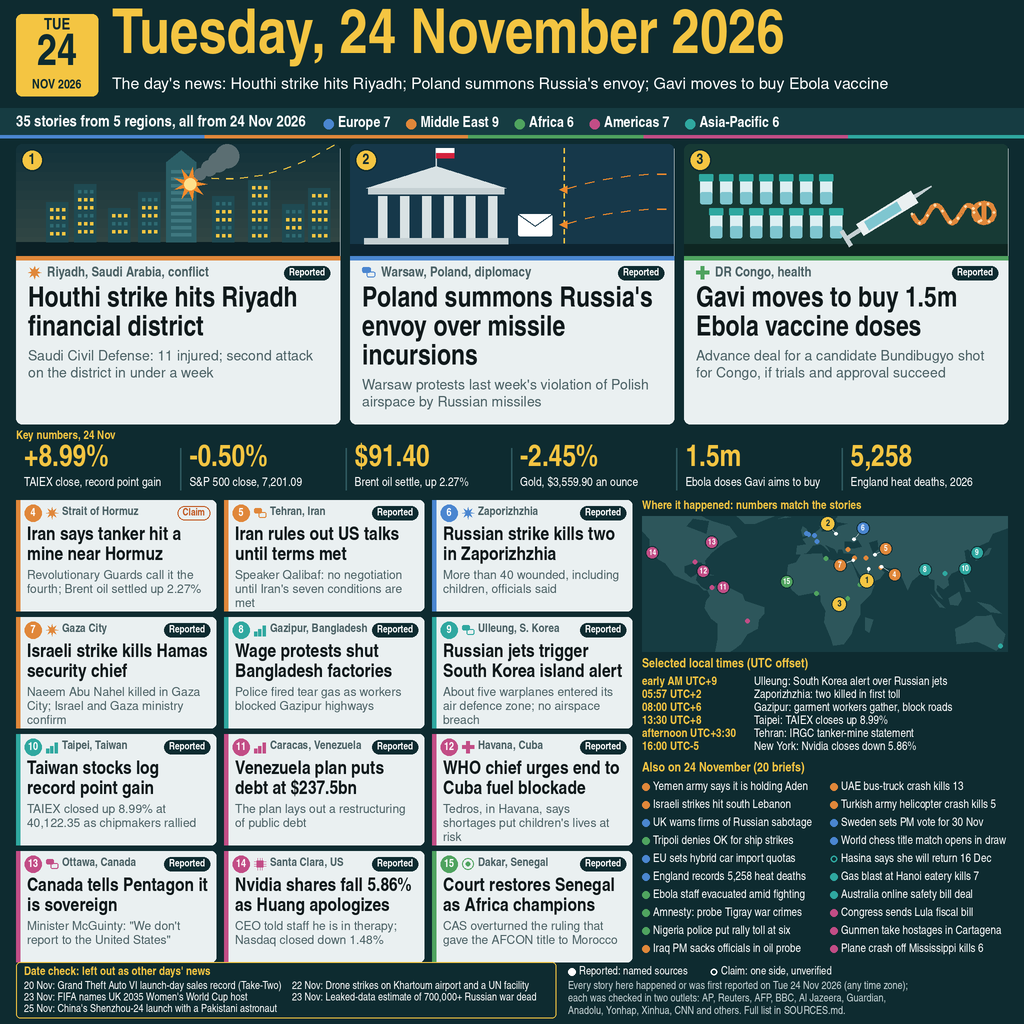
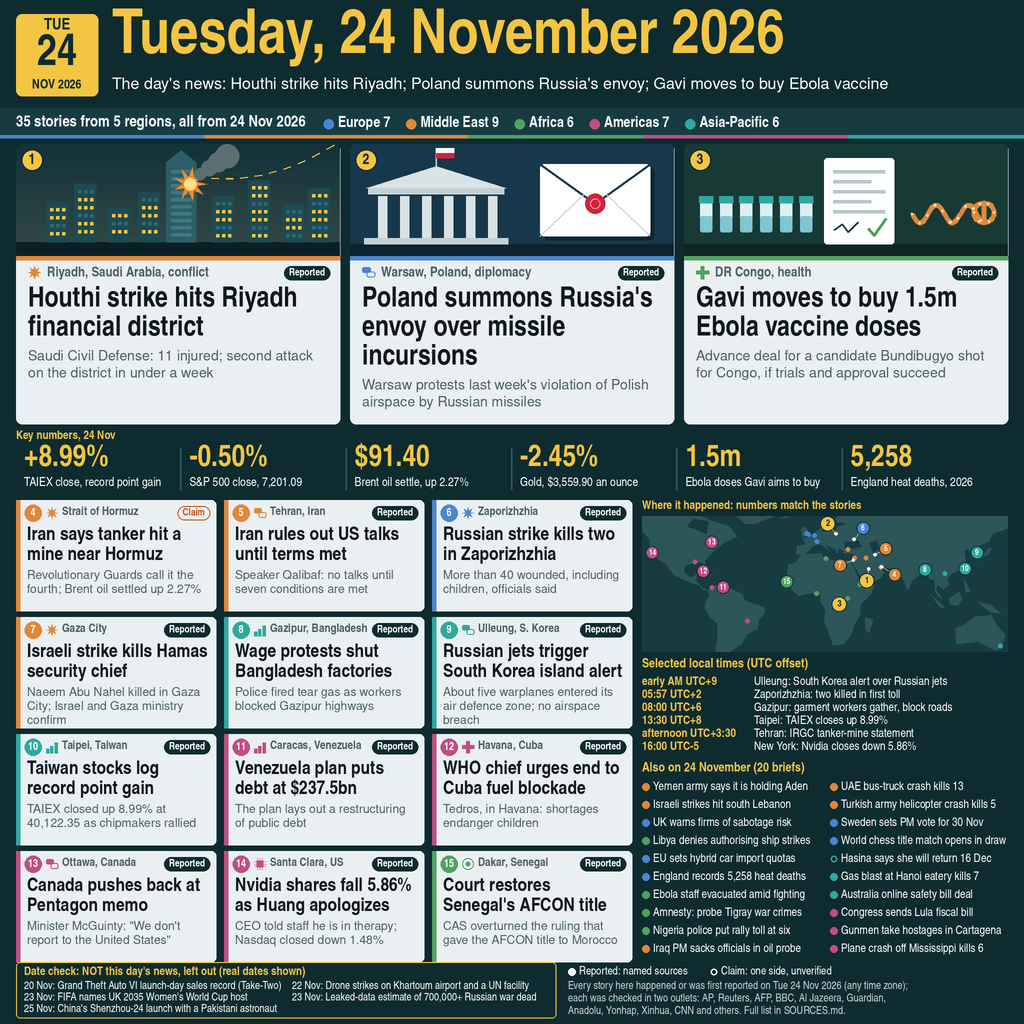
Apply art-director review: summons and purchase-deal lead art, clearer card and brief wording, labelled date check

diff --git a/render.py b/render.py
@@ -221,20 +221,15 @@ def scene_poland(w, h):
     p.line([((x0 + x1) / 2, 22), ((x0 + x1) / 2, 4)], "#C5D0D3", 1.5)
     p.rect((x0 + x1) / 2, 4, (x0 + x1) / 2 + 18, 9, fill="#FFFFFF")
     p.rect((x0 + x1) / 2, 9, (x0 + x1) / 2 + 18, 14, fill="#D4213D")
-    # border line and two missile tracks crossing it from the east
-    bxl = 214
-    for y in range(4, h - 12, 9):
-        p.line([(bxl, y), (bxl, y + 5)], "#F4C542", 1.6)
-    for k, y0 in enumerate((30, 62)):
-        pts = [(w - 8 - i * 9, y0 + (i * i) * 0.12 + k * 3) for i in range(12)]
-        for i in range(0, len(pts) - 1, 2):
-            p.line([pts[i], pts[i + 1]], "#F08A2C", 1.8)
-        hx, hy = pts[-1]
-        p.poly([(hx - 8, hy + 1), (hx, hy - 3), (hx, hy + 5)], fill="#F08A2C")
-    # summons envelope
-    ex, ey = 168, 70
-    p.rect(ex, ey, ex + 34, ey + 22, fill="#FFFFFF", r=2)
-    p.line([(ex, ey), (ex + 17, ey + 12), (ex + 34, ey)], "#16384A", 1.4)
+    # the summons: a large diplomatic letter with a red seal (no missile art: the day's news is the protest)
+    ex, ey, ew, eh = 190, 20, 110, 72
+    p.rect(ex + 4, ey + 4, ex + ew + 4, ey + eh + 4, fill="#0D2430", r=4)
+    p.rect(ex, ey, ex + ew, ey + eh, fill="#FFFFFF", r=4)
+    p.line([(ex, ey), (ex + ew / 2, ey + eh * 0.55), (ex + ew, ey)], "#16384A", 2)
+    p.line([(ex, ey + eh), (ex + ew * 0.4, ey + eh * 0.42)], "#C5D0D3", 1.4)
+    p.line([(ex + ew, ey + eh), (ex + ew * 0.6, ey + eh * 0.42)], "#C5D0D3", 1.4)
+    p.circle(ex + ew / 2, ey + eh * 0.55, 10, fill="#D4213D")
+    p.circle(ex + ew / 2, ey + eh * 0.55, 5, outline="#F4A3B0", width=1.4)
     return im
 
 
@@ -243,24 +238,19 @@ def scene_ebola(w, h):
     im = Image.new("RGB", (w * S, h * S), "#173A35")
     p = Pen(im)
     p.rect(0, h - 12, w, h, fill="#0E2622")
-    # rows of vials: many doses
-    for r in range(2):
-        for c in range(7):
-            x = 16 + c * 20 + r * 10
-            y = 30 + r * 34
-            p.rect(x, y + 6, x + 12, y + 30, fill="#DCEFF2", r=2)
-            p.rect(x, y + 18, x + 12, y + 30, fill="#7FC6D0", r=2)
-            p.rect(x - 1, y, x + 13, y + 7, fill="#2FA8A0", r=1)
-    # syringe
-    sx, sy = 176, 86
-    ang = -0.55
-    def rot(dx, dy):
-        return (sx + dx * math.cos(ang) - dy * math.sin(ang), sy + dx * math.sin(ang) + dy * math.cos(ang))
-    p.poly([rot(0, -7), rot(64, -7), rot(64, 7), rot(0, 7)], fill="#EAF0F1")
-    p.poly([rot(8, -5), rot(46, -5), rot(46, 5), rot(8, 5)], fill="#7FC6D0")
-    p.poly([rot(64, -2), rot(84, -0.6), rot(84, 0.6), rot(64, 2)], fill="#C5D0D3")
-    p.poly([rot(-14, -2), rot(0, -2), rot(0, 2), rot(-14, 2)], fill="#C5D0D3")
-    p.poly([rot(-18, -9), rot(-14, -9), rot(-14, 9), rot(-18, 9)], fill="#C5D0D3")
+    # one row of candidate-vaccine vials
+    for c in range(6):
+        x, y = 16 + c * 20, 52
+        p.rect(x, y + 6, x + 12, y + 36, fill="#DCEFF2", r=2)
+        p.rect(x, y + 20, x + 12, y + 36, fill="#7FC6D0", r=2)
+        p.rect(x - 1, y, x + 13, y + 7, fill="#2FA8A0", r=1)
+    # the purchase commitment: a signed document with a tick, not a jab (doses depend on trials)
+    dx, dy = 140, 14
+    p.rect(dx, dy, dx + 70, dy + 86, fill="#FFFFFF", r=3)
+    for i in range(5):
+        p.rect(dx + 9, dy + 12 + i * 10, dx + 61 - (i % 2) * 14, dy + 15 + i * 10, fill="#B8C6C9")
+    p.line([(dx + 10, dy + 72), (dx + 18, dy + 66), (dx + 24, dy + 74), (dx + 34, dy + 64)], "#16384A", 1.6)
+    p.line([(dx + 44, dy + 70), (dx + 50, dy + 77), (dx + 62, dy + 60)], "#4FA35F", 3)
     # filament virus: a long wavy thread with a closed loop (a crook shape reads as a "?")
     pts = []
     for i in range(48):
@@ -469,7 +459,7 @@ def render(out):
     # footer: date check, legend, sources
     fy = 964
     p.rect(16, fy - 2, 556, H - 6, outline=YEL, width=1.2, r=4)
-    p.text(24, fy + 2, "Date check: left out as other days' news", F("nb", 12), YEL)
+    p.text(24, fy + 2, "Date check: NOT this day's news, left out (real dates shown)", F("nb", 12), YEL)
     for i, d_ in enumerate(drops):
         x0 = 24 + (i % 2) * 268
         y = fy + 17 + (i // 2) * 11.5

diff --git a/SOURCES.md b/SOURCES.md
@@ -16,24 +16,24 @@ Format: id | region | place | lat, lon | field | tag | local time | headline | f
 ## Cards
 
 - C4 | Middle East | Strait of Hormuz | 26.50, 56.55 | conflict | CLAIM | afternoon statement (UTC+3:30) | Iran says tanker hit a mine near Hormuz | Revolutionary Guards call it the fourth; Brent oil settled up 2.27% | https://u.aa.com.tr/en/middle-east/iran-says-4th-oil-tanker-hits-naval-mine-catches-fire-in-strait-of-hormuz/4135570 ; https://www.tehrantimes.com/news/532508/Fourth-oil-tanker-reportedly-catches-fire-east-of-Hormuz-Strait ; https://live.euronext.com/en/financial-news/oil-settles-2-traders-weigh-continued-hormuz-ship-attacks
-- C5 | Middle East | Tehran, Iran | 35.69, 51.39 | diplomacy | REPORTED | time not reported | Iran rules out US talks until terms met | Speaker Qalibaf: no negotiation until Iran's seven conditions are met | https://apnews.com/article/mideast-iran-gaza-israel-houthis-libya-november-24-2026-ba01cb036a849ba69873da5000ee08d5 ; https://www.tehrantimes.com/news/532510/Qalibaf-rules-out-action-or-negotiations-until-Iran-s-seven-conditions
+- C5 | Middle East | Tehran, Iran | 35.69, 51.39 | diplomacy | REPORTED | time not reported | Iran rules out US talks until terms met | Speaker Qalibaf: no talks until seven conditions are met | https://apnews.com/article/mideast-iran-gaza-israel-houthis-libya-november-24-2026-ba01cb036a849ba69873da5000ee08d5 ; https://www.tehrantimes.com/news/532510/Qalibaf-rules-out-action-or-negotiations-until-Iran-s-seven-conditions
 - C6 | Europe | Zaporizhzhia | 47.84, 35.14 | conflict | REPORTED | 05:57 UTC+2 (first toll) | Russian strike kills two in Zaporizhzhia | More than 40 wounded, including children, officials said | https://nagalandpost.com/russian-strike-on-ukraine-kills-2-wounds-children-as-kyiv-explains-attack-in-libya/ ; https://www.aljazeera.com/amp/news/2026/11/24/russian-attack-kills-two-people-in-ukraines-zaporizhzhia ; https://www.pravda.com.ua/eng/news/2026/11/24/8064321/
 - C7 | Middle East | Gaza City | 31.50, 34.47 | conflict | REPORTED | time not reported | Israeli strike kills Hamas security chief | Naeem Abu Nahel killed in Gaza City; Israel and Gaza ministry confirm | https://www.bbc.com/news/articles/c6rrg7ggq190o ; https://www.france24.com/en/middle-east/20261124-israeli-strikes-on-gaza-kill-senior-hamas-security-official-and-six-other-people-medics-say
 - C8 | Asia-Pacific | Gazipur, Bangladesh | 24.00, 90.42 | economy | REPORTED | from 08:00 UTC+6 | Wage protests shut Bangladesh factories | Police fired tear gas as workers blocked Gazipur highways | https://www.tbsnews.net/economy/rmg/production-halted-481-garment-factories-amid-minimum-wage-negotiations-1612891 ; https://indiatoday.in/world/story/bangladesh-factories-shut-gazipur-highways-blocked-as-garment-workers-clash-with-police-amid-unrest-3046012-2026-11-24
 - C9 | Asia-Pacific | Ulleung, S. Korea | 37.48, 130.91 | diplomacy | REPORTED | early morning UTC+9 | Russian jets trigger South Korea island alert | About five warplanes entered its air defence zone; no airspace breach | https://en.yna.co.kr/view/AEN20261124002255315?section=national/defense ; https://www.aljazeera.com/news/2026/11/24/why-s-korea-issued-air-raid-alert-after-russian-jets-flew-near-its-airspace
 - C10 | Asia-Pacific | Taipei, Taiwan | 25.03, 121.57 | economy | REPORTED | 13:30 UTC+8 (close) | Taiwan stocks log record point gain | TAIEX closed up 8.99% at 40,122.35 as chipmakers rallied | https://www.taiwannews.com.tw/news/6480420 ; https://money.udn.com/money/story/5612/9898636
 - C11 | Americas | Caracas, Venezuela | 10.48, -66.90 | economy | REPORTED | time not reported | Venezuela plan puts debt at $237.5bn | The plan lays out a restructuring of public debt | https://finance.yahoo.com/news/venezuela-unveils-long-awaited-economic-152405699.html ; https://www.elnacional.com/2026/11/gobierno-publica-plan-economico-venezuela-renace-petroleo-deuda/
-- C12 | Americas | Havana, Cuba | 23.11, -82.37 | health | REPORTED | time not reported | WHO chief urges end to Cuba fuel blockade | Tedros, in Havana, says shortages put children's lives at risk | https://thehindu.com/news/international/who-chief-calls-on-us-to-lift-oil-blockade-on-cuba-citing-health-impact/article71740941.ece ; https://aljazeera.com/news/2026/11/24/who-chief-visits-cuba-as-healthcare-system-deteriorates ; https://www.who.int/news-room/speeches/item/who-director-general-s-remarks-at-press-conference---24-november-2026
-- C13 | Americas | Ottawa, Canada | 45.42, -75.70 | diplomacy | REPORTED | time not reported | Canada tells Pentagon it is sovereign | Minister McGuinty: "We don't report to the United States" | https://www.theguardian.com/world/2026/nov/24/canada-sovereign-nation-us-relations-defence-pentagon-memo ; https://english.news.cn/northamerica/20261125/59d6abf223454881b557e69bd2d2d268/c.html
+- C12 | Americas | Havana, Cuba | 23.11, -82.37 | health | REPORTED | time not reported | WHO chief urges end to Cuba fuel blockade | Tedros, in Havana: shortages endanger children | https://thehindu.com/news/international/who-chief-calls-on-us-to-lift-oil-blockade-on-cuba-citing-health-impact/article71740941.ece ; https://aljazeera.com/news/2026/11/24/who-chief-visits-cuba-as-healthcare-system-deteriorates ; https://www.who.int/news-room/speeches/item/who-director-general-s-remarks-at-press-conference---24-november-2026
+- C13 | Americas | Ottawa, Canada | 45.42, -75.70 | diplomacy | REPORTED | time not reported | Canada pushes back at Pentagon memo | Minister McGuinty: "We don't report to the United States" | https://www.theguardian.com/world/2026/nov/24/canada-sovereign-nation-us-relations-defence-pentagon-memo ; https://english.news.cn/northamerica/20261125/59d6abf223454881b557e69bd2d2d268/c.html
 - C14 | Americas | Santa Clara, US | 37.39, -121.96 | tech | REPORTED | 16:00 UTC-5 (close) | Nvidia shares fall 5.86% as Huang apologizes | CEO told staff he is in therapy; Nasdaq closed down 1.48% | https://edition.cnn.com/2026/11/24/tech/jensen-huang-apologies-employees-therapy ; https://www.rfi.fr/en/international-news/20261124-huang-s-return-fails-to-dispel-doubts-as-nvidia-shares-drop ; https://english.news.cn/20261125/d203107ead8b4b02841ae30cbf2ab7a1/c.html
-- C15 | Africa | Dakar, Senegal | 14.69, -17.44 | sport | REPORTED | time not reported | Court restores Senegal as Africa champions | CAS overturned the ruling that gave the AFCON title to Morocco | https://apnews.com/article/africa-cup-final-afcon-senegal-morocco-cas-d3804e3923ec1b7e5ca846806e8d6040 ; https://www.theguardian.com/football/2026/nov/24/afcon-verdict-senegal-morocco-africa-cup-of-nations-champions-court-ruling-cas
+- C15 | Africa | Dakar, Senegal | 14.69, -17.44 | sport | REPORTED | time not reported | Court restores Senegal's AFCON title | CAS overturned the ruling that gave the AFCON title to Morocco | https://apnews.com/article/africa-cup-final-afcon-senegal-morocco-cas-d3804e3923ec1b7e5ca846806e8d6040 ; https://www.theguardian.com/football/2026/nov/24/afcon-verdict-senegal-morocco-africa-cup-of-nations-champions-court-ruling-cas
 
 ## Briefs
 
 - B16 | Middle East | Aden, Yemen | 12.79, 45.04 | conflict | REPORTED | time not reported | Yemen army says it is holding Aden | Government forces said they were defending Aden as Houthi forces pushed closer | https://apnews.com/article/mideast-iran-gaza-israel-houthis-libya-november-24-2026-ba01cb036a849ba69873da5000ee08d5 ; https://www.reuters.com/world/middle-east/houthis-wont-seize-aden-yemeni-government-forces-say-2026-11-24/
 - B17 | Middle East | Southern Lebanon | 33.21, 35.42 | conflict | REPORTED | morning | Israeli strikes hit south Lebanon | Airstrikes and shelling despite the US-brokered ceasefire | https://aa.com.tr/en/middle-east/israeli-airstrikes-artillery-shelling-hit-southern-lebanon-as-violations-of-us-deal-continue/4135600 ; https://www.arabnews.com/middle-east/israel-pounds-southern-lebanon-amid-withdrawal-disarmament-standoff-3013865
-- B18 | Europe | London, UK | 51.51, -0.13 | diplomacy | REPORTED | morning | UK warns firms of Russian sabotage | Firms supporting Ukraine's military told to prepare | https://www.yahoo.com/news/articles/uk-warns-russian-sabotage-threat-123549976.html ; https://www.chronicleonline.com/news/world/british-officials-warn-uk-firms-aiding-ukraine-to-brace-for-russian-sabotage-threats/article_349f562e-ff4d-5906-b3a1-94ae10a02c0f.html
-- B19 | Africa | Tripoli, Libya | 32.89, 13.19 | diplomacy | REPORTED | time not reported | Tripoli denies OK for ship strikes | Libya's UN-backed government says it did not authorise Ukraine's strikes | https://www.theguardian.com/world/live/2026/nov/24/russia-ukraine-poland-drone-patriots-latest-news-updates ; https://www.investing.com/news/world-news/ukraine-says-attack-on-russian-ships-in-libya-was-selfdefence-5049274
+- B18 | Europe | London, UK | 51.51, -0.13 | diplomacy | REPORTED | morning | UK warns firms of sabotage risk | Firms supporting Ukraine's military told to prepare | https://www.yahoo.com/news/articles/uk-warns-russian-sabotage-threat-123549976.html ; https://www.chronicleonline.com/news/world/british-officials-warn-uk-firms-aiding-ukraine-to-brace-for-russian-sabotage-threats/article_349f562e-ff4d-5906-b3a1-94ae10a02c0f.html
+- B19 | Africa | Tripoli, Libya | 32.89, 13.19 | diplomacy | REPORTED | time not reported | Libya denies authorising ship strikes | Libya's UN-backed government says it did not authorise Ukraine's strikes | https://www.theguardian.com/world/live/2026/nov/24/russia-ukraine-poland-drone-patriots-latest-news-updates ; https://www.investing.com/news/world-news/ukraine-says-attack-on-russian-ships-in-libya-was-selfdefence-5049274
 - B20 | Europe | Brussels, EU | 50.85, 4.35 | economy | REPORTED | time not reported | EU sets hybrid car import quotas | Temporary quotas on tariff-free hybrid imports start 1 December | https://www.theguardian.com/business/2026/nov/24/eu-cap-chinese-hybrid-ev-imports-tariff-uk ; https://www.dw.com/en/eu-imposes-import-quotas-for-hybrid-vehicles-from-china/a-80029981
 - B21 | Europe | England, UK | 52.48, -1.89 | climate | REPORTED | time not reported | England records 5,258 heat deaths | UKHSA estimate for summer 2026, the highest on record | https://www.aljazeera.com/news/2026/11/24/heat-deaths-reach-record-high-in-uk-in-2026 ; https://mobil.aa.com.tr/en/world/heat-associated-deaths-in-england-reach-record-high-in-2026-official-figures-show/4135752
 - B22 | Africa | Ituri, DR Congo | 1.56, 30.25 | health | REPORTED | time not reported | Ebola staff evacuated amid fighting | WHO says its team was moved out of Akwe hospital | https://www.lemonde.fr/en/international/article/2026/11/25/who-chief-says-staff-evacuated-from-dr-congo-hospital_6787750_4.html ; https://kivumedia.com/en/ituri-ebola-responders-evacuated-from-akwe-hospital-who-pulls-its-team-out-of-mongbwalu/
